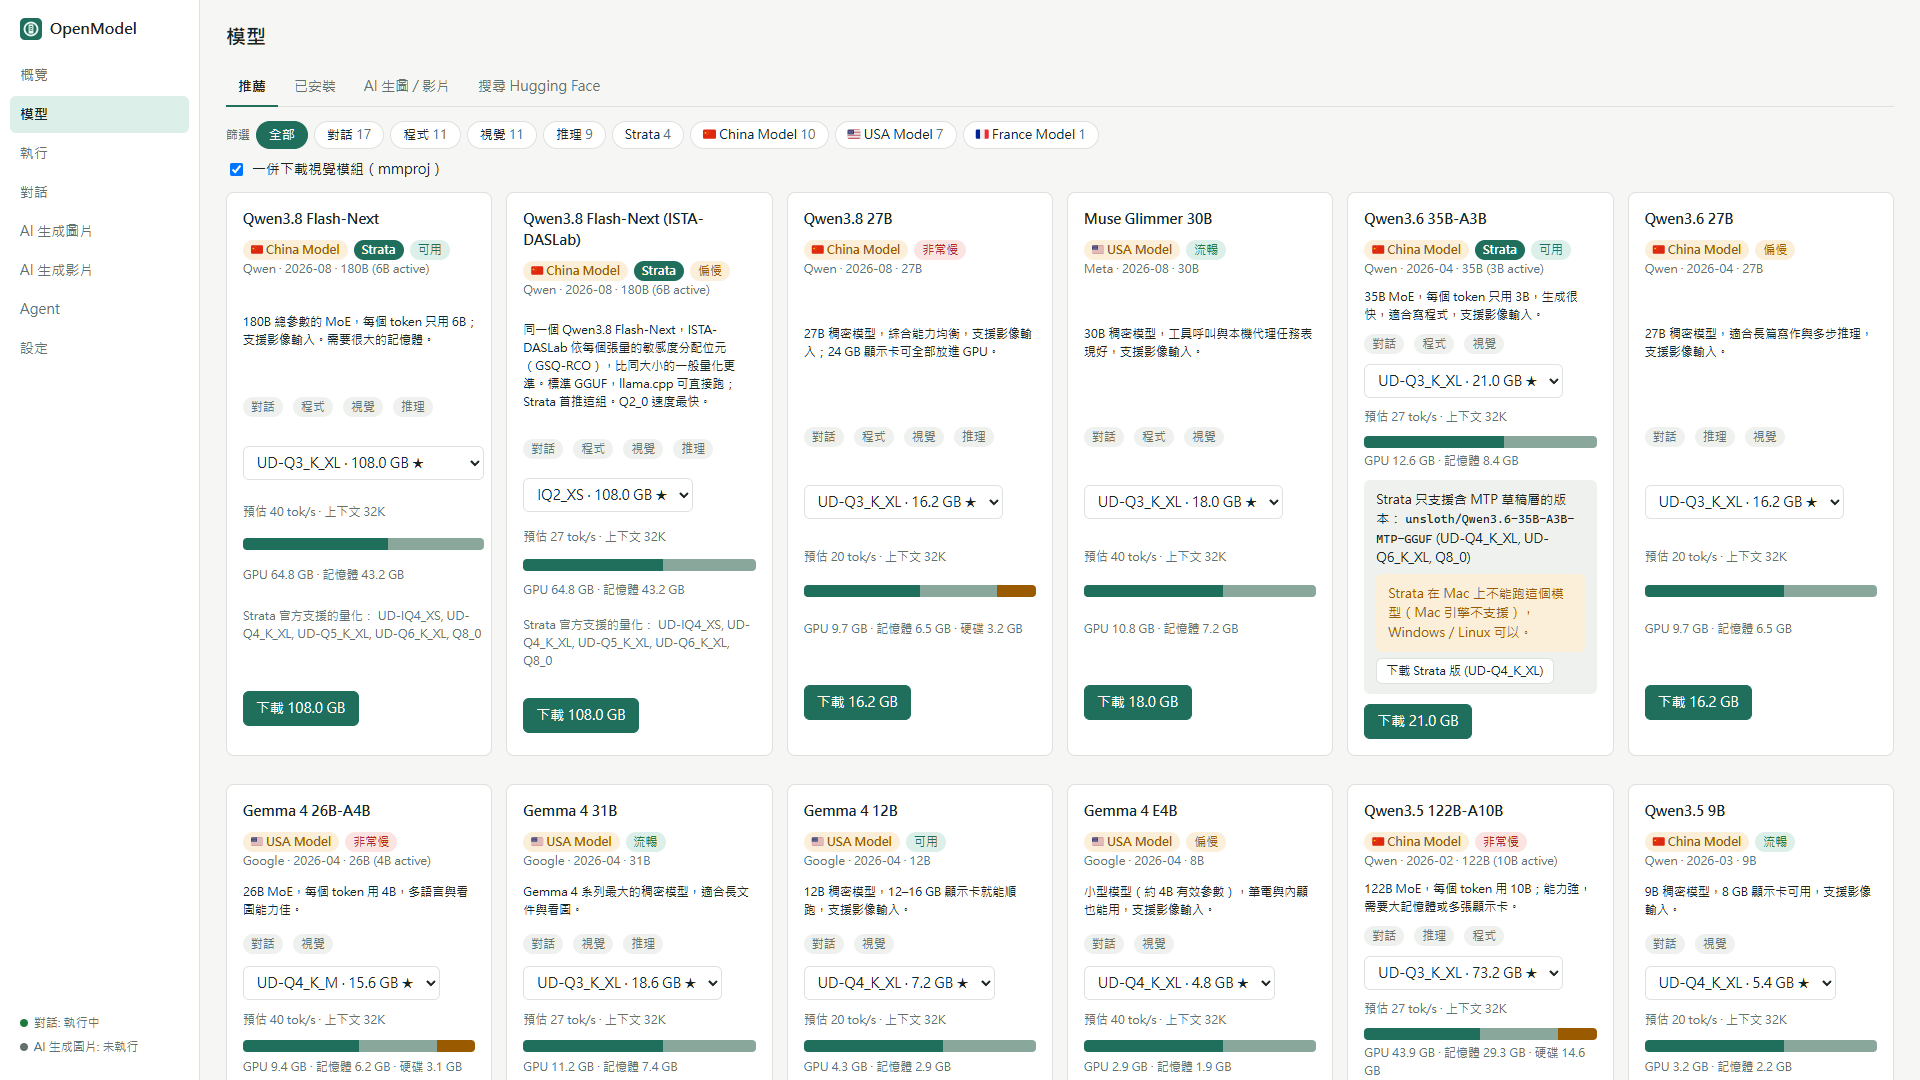
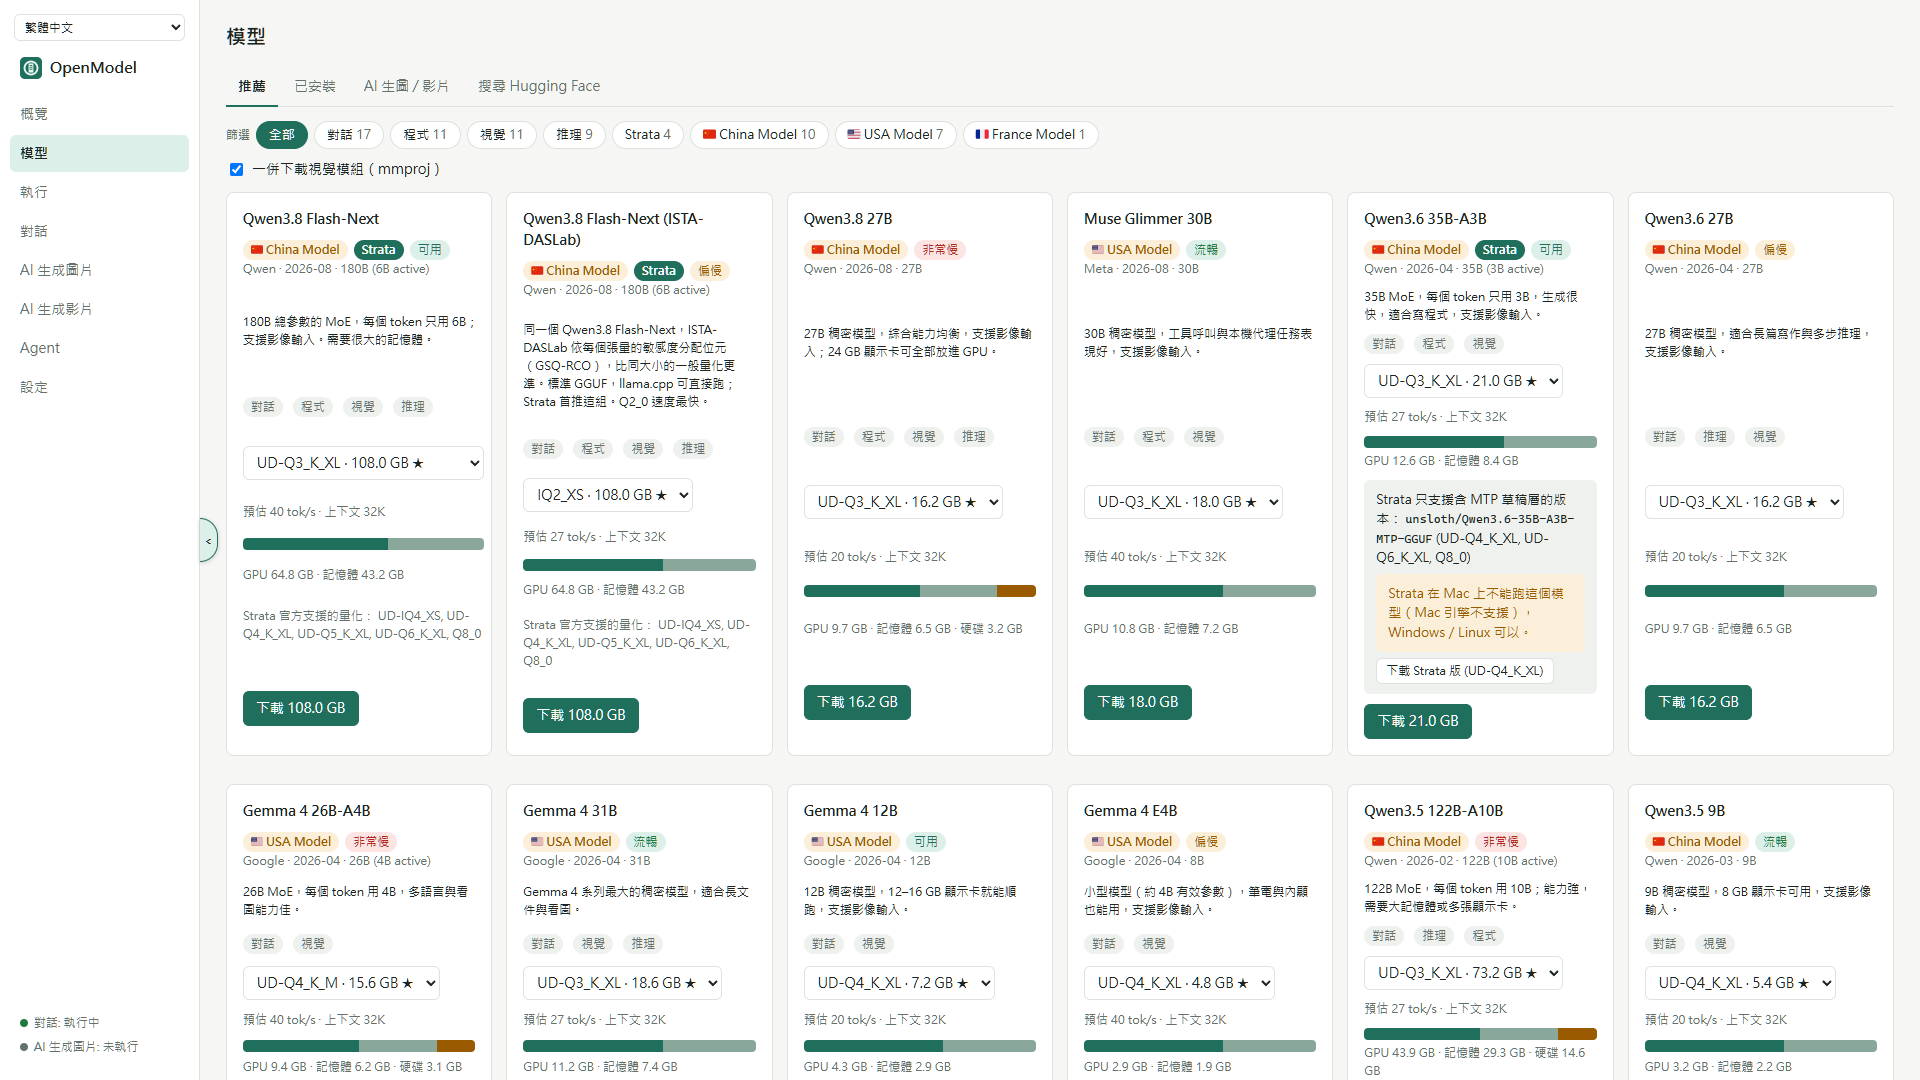
Rename the image/video server to AI image/video; retake screenshots

Changed region(s): [[0.0, 0.0, 0.125, 0.1833], [0.0, 0.275, 0.0312, 0.3361], [0.0938, 0.4889, 0.125, 0.5194]]

diff --git a/app/src/i18n.tsx b/app/src/i18n.tsx
@@ -40,7 +40,7 @@ const zh = {
   "overview.vram_live": "目前 VRAM 使用",
   "overview.spill": "VRAM 幾乎用滿，驅動程式可能把資料移到系統記憶體，速度會明顯變慢。",
   "overview.llm": "對話模型伺服器",
-  "overview.sd": "畫圖 / 影片伺服器",
+  "overview.sd": "AI 生成圖片 / 影片伺服器",
   "overview.api": "OpenAI 相容 API",
   "overview.api_key": "API key",
   "overview.copy": "複製",
@@ -156,7 +156,7 @@ const zh = {
   "image.generate": "產生",
   "image.ref": "參考圖片（編輯 / 圖生圖）",
   "image.strength": "改動幅度",
-  "image.not_installed": "這個模型還沒下載。到「模型 → 畫圖 / 影片」下載。",
+  "image.not_installed": "這個模型還沒下載。到「模型 → AI 生圖 / 影片」下載。",
   "image.outputs": "輸出",
   "video.seconds": "長度（秒）",
   "video.portrait": "直式",
@@ -213,7 +213,7 @@ const zh = {
   "settings.api_key_hint": "其他程式連線時要帶 Authorization: Bearer <key>。llama.cpp、vLLM、Strata 適用；MLX 不支援驗證。下次啟動模型時生效。",
   "settings.ports": "連接埠",
   "settings.llm_port": "對話模型",
-  "settings.image_port": "畫圖 / 影片",
+  "settings.image_port": "AI 生成圖片 / 影片",
   "settings.memory": "保留給系統的記憶體",
   "settings.ram_reserve": "RAM（GB）",
   "settings.vram_reserve": "VRAM（GB）",
@@ -278,7 +278,7 @@ const en: Record<Key, string> = {
   "overview.vram_live": "VRAM in use now",
   "overview.spill": "VRAM is almost full. The driver may move data into system memory, which makes generation much slower.",
   "overview.llm": "Chat model server",
-  "overview.sd": "Image / video server",
+  "overview.sd": "AI image / video server",
   "overview.api": "OpenAI-compatible API",
   "overview.api_key": "API key",
   "overview.copy": "Copy",
@@ -394,7 +394,7 @@ const en: Record<Key, string> = {
   "image.generate": "Generate",
   "image.ref": "Reference image (edit / img2img)",
   "image.strength": "Change strength",
-  "image.not_installed": "This model is not downloaded. Get it in Models → Image / video.",
+  "image.not_installed": "This model is not downloaded. Get it in Models → AI image / video.",
   "image.outputs": "Outputs",
   "video.seconds": "Length (s)",
   "video.portrait": "Portrait",
@@ -451,7 +451,7 @@ const en: Record<Key, string> = {
   "settings.api_key_hint": "Clients send it as Authorization: Bearer <key>. Applies to llama.cpp, vLLM and Strata; MLX has no authentication. Takes effect the next time you start a model.",
   "settings.ports": "Ports",
   "settings.llm_port": "Chat model",
-  "settings.image_port": "Image / video",
+  "settings.image_port": "AI image / video",
   "settings.memory": "Memory kept free for the system",
   "settings.ram_reserve": "RAM (GB)",
   "settings.vram_reserve": "VRAM (GB)",
